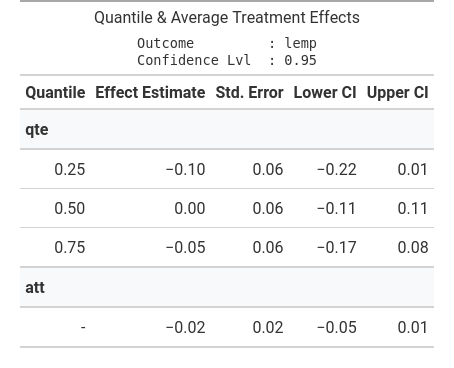
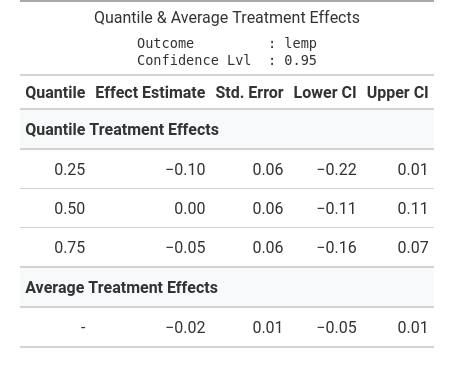
Fix x-axis display in charts.

diff --git a/src/qte/presentation/altair_charts.py b/src/qte/presentation/altair_charts.py
@@ -8,9 +8,18 @@ _KIND_COLOR = alt.Scale(domain=_KIND_ORDER, range=["black", "red"])
 
 
 def _make_line_layer(
-    base: alt.Chart, y: str, stroke_dash: tuple[int, int] = (1, 0)
+    base: alt.Chart, y: str, tick_values: list[float], stroke_dash: tuple[int, int] = (1, 0)
 ) -> tuple[alt.Chart, alt.Chart]:
-    x = alt.X(f"{QUANTILE_ID}:Q", axis=alt.Axis(title="Q", titleFontWeight="normal"))
+    x = alt.X(
+        f"{QUANTILE_ID}:Q",
+        axis=alt.Axis(
+            title="Q",
+            titleFontWeight="normal",
+            values=tick_values,
+            # At most 3 decimals (0.333 for 1/3); `~` trims trailing zeros.
+            format=".3~f",
+        ),
+    )
     line_chart = base.mark_line(color="black", strokeDash=list(stroke_dash)).encode(  # ty: ignore[unresolved-attribute]
         x=x, y=alt.Y(y, title="")
     )
@@ -25,15 +34,15 @@ def _make_rule_layer(base: alt.Chart, y: str, stroke_dash: tuple[int, int] = (1,
 
 
 def _make_plot_with_multiple_quantiles(
-    combined: pl.DataFrame, group: str | None
+    combined: pl.DataFrame, group: str | None, tick_values: list[float]
 ) -> alt.LayerChart | alt.FacetChart:
     base = alt.Chart(combined)
 
     qtes_ds = base.transform_filter(alt.datum.__kind == "qte")
     qte_layer = alt.layer(
-        *_make_line_layer(qtes_ds, EFFECT_ID),
-        *_make_line_layer(qtes_ds, CI_UB_ID, stroke_dash=(8, 8)),
-        *_make_line_layer(qtes_ds, CI_LB_ID, stroke_dash=(8, 8)),
+        *_make_line_layer(qtes_ds, EFFECT_ID, tick_values),
+        *_make_line_layer(qtes_ds, CI_UB_ID, tick_values, stroke_dash=(8, 8)),
+        *_make_line_layer(qtes_ds, CI_LB_ID, tick_values, stroke_dash=(8, 8)),
     )
 
     atts_ds = base.transform_filter(alt.datum.__kind == "att")
@@ -95,10 +104,10 @@ def make_plot(
         (d.with_columns(pl.lit(k).alias("__kind")) for d, k in [(qtes, "qte"), (atts, "att")]),
         how="diagonal",
     )
-    quantiles = qtes[QUANTILE_ID].unique()
+    quantiles = qtes[QUANTILE_ID].unique().sort()
     n_quantiles = quantiles.shape[0]
     return (
-        _make_plot_with_multiple_quantiles(combined, group)
+        _make_plot_with_multiple_quantiles(combined, group, quantiles.to_list())
         if n_quantiles > 1
         else _make_plot_for_single_quantile(combined, quantile=quantiles.item(), group=group)
     )
